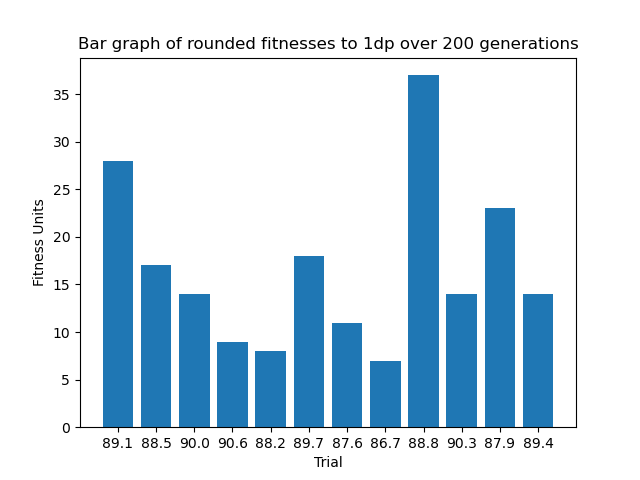
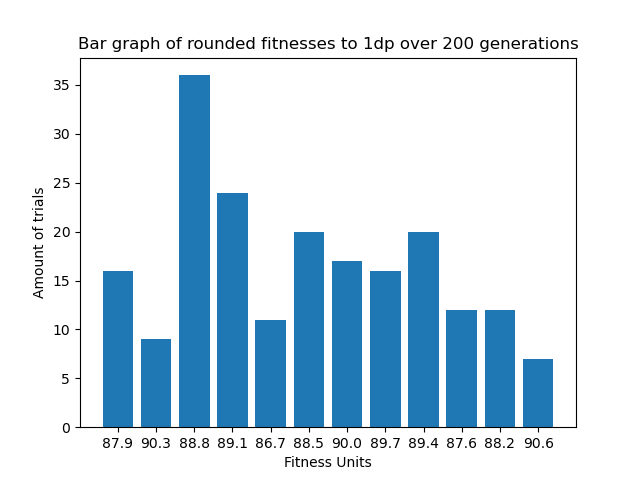
results

diff --git a/Simulation/Explicit.py b/Simulation/Explicit.py
@@ -257,8 +257,8 @@ plt.xticks(range(len(d)), list(d.keys()))
 # plt.xticks(range(len(D)), D.keys())  # in python 2.x
 plt.title("Bar graph of rounded fitnesses to 1dp over "+str(Generations)+" generations")
 
-plt.ylabel("Fitness Units")
-plt.xlabel("Trial")
+plt.ylabel("Amount of trials")
+plt.xlabel("Fitness Units")
 plt.show()
 
 
